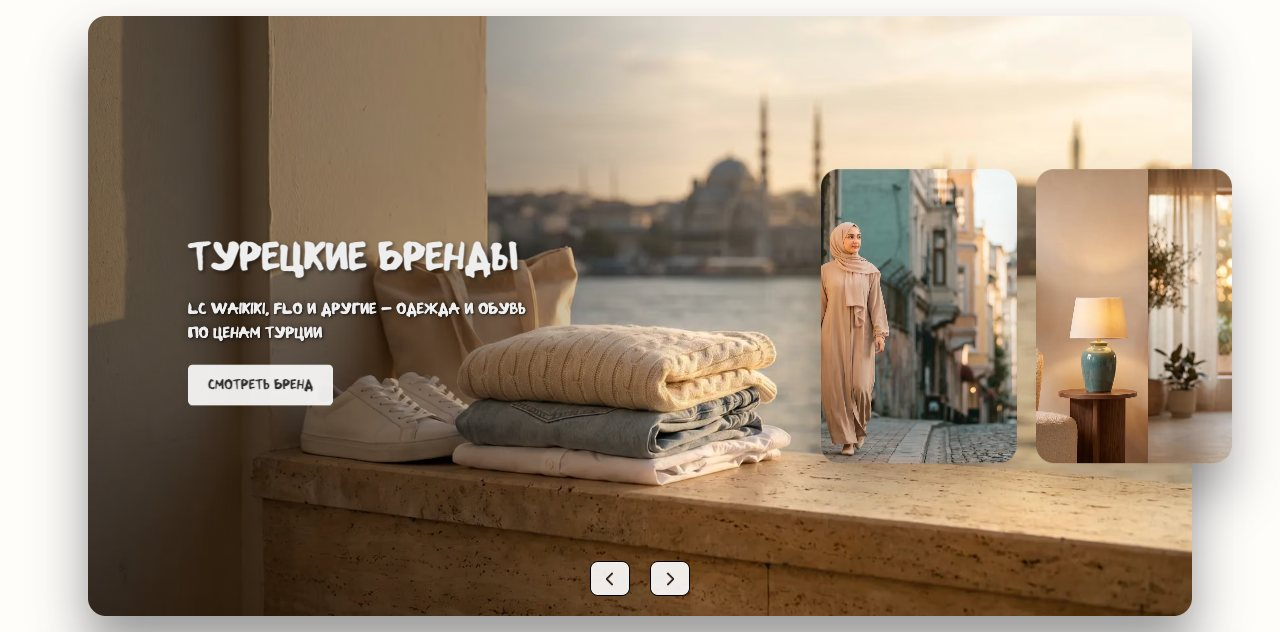
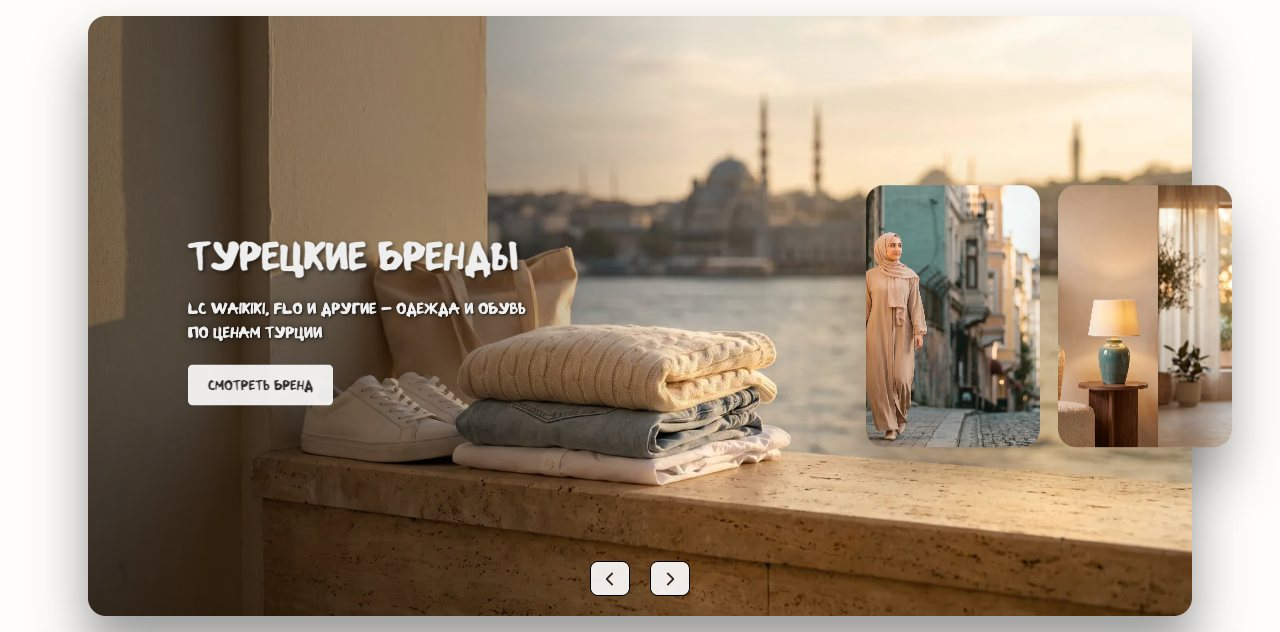
Баннеры: миниатюры мельче, место у центра свободно (решение владельца)
Вместо 168×252 на 1024 px — 116×173 (--thumb-w: clamp(100px, 23vw − 120px,
200px)), на 1280 — 174×262, 200×300 с ~1390 px. Лента начинается не левее
67 % ширины баннера, место убранной центральной миниатюры свободно с ~950 px
(на 769–950 миниатюры 100×150 заходят на него до 57 px). Обе миниатюры по-
прежнему целиком в окне, на ≤ 768 и ≥ 1440 px без изменений.

Changed region(s): [[0.625, 0.2405, 0.9688, 0.7816], [0.1562, 0.6013, 0.25, 0.6313]]

diff --git a/frontend/src/components/BannerCarousel.module.css b/frontend/src/components/BannerCarousel.module.css
@@ -21,8 +21,10 @@
 }
 
 .item {
-  /* Миниатюра 2:3: 140×210 на 769 px → 200×300 с ~1320 px (на ≤ 768 px свои размеры, ниже) */
-  --thumb-w: min(11vw + 55px, 200px);
+  /* Миниатюра 2:3: 100×150 до ~960 px, 116×173 на 1024, 174×262 на 1280, 200×300
+     с ~1390 px (на ≤ 768 px свои размеры, ниже). Мелкая, чтобы место у центра
+     (left: 52%) оставалось свободным */
+  --thumb-w: clamp(100px, 23vw - 120px, 200px);
   /* Правый край второй миниатюры: в 48 px от края окна (край окна от левого края
      баннера = 50% + 50vw, баннер по центру; 100vw включает классическую полосу
      прокрутки, с ней отступ ≈ 40 px), но не правее прежнего места 52% + 640px:
@@ -64,8 +66,8 @@
 
 /* Две миниатюры у правого края, обе целиком в окне: второй элемент - первая
    миниатюра (следующий баннер). Левые края отсчитаны от --strip-end, зазор -
-   0,1 ширины. С ~1380 px место у центра (left: 52%) свободно, на узких окнах
-   лента начинается не левее 56 % ширины баннера (61,5 % на 1024 px) */
+   0,1 ширины. Лента начинается не левее 67 % ширины баннера; место у центра
+   (left: 52%) свободно с ~950 px, уже́ миниатюры 100×150 заходят на него до 57 px */
 .slide .item:nth-child(2) {
   left: calc(var(--strip-end) - var(--thumb-w) * 2.1);
   z-index: 10;

diff --git a/docs/DEVELOPMENT_RULES.md b/docs/DEVELOPMENT_RULES.md
@@ -144,7 +144,7 @@ docker-compose за nginx и Cloudflare.
 5. Деньги: форматирование только через `lib/price.ts`. Никаких локальных `toFixed`/`toLocaleString`.
 6. **Цвет из CSS-переменной — без модификатора прозрачности.** Tailwind 3 не генерирует `bg-[var(--bg)]/95`, `text-main/50`, `border-[var(--border)]/50`: класс молча пропадает, и фон становится прозрачным (так мобильная шторка фильтров категорий показывала тёмный текст на размытой картинке). В `[var(--…)]` — только переменные, объявленные в `styles/globals.css` (`--accent-hover`, `--text-muted`, `--text-main` там нет). Шторка фильтров `CategorySidebar` на мобильном: сплошной фон `--bg`, текст не ниже 4.5:1 в обеих темах, строки и кнопки от 44 px.
 7. **Видео баннеров не грузится вместе со страницей.** В `BannerCarouselMedia` `<video>` рендерится с `preload="none"` без `autoPlay`; ролики играют, только пока блок не дальше полэкрана от видимой области (`IntersectionObserver` с `rootMargin`): активный слайд и видимые миниатюры (на десктопе превью — часть дизайна). Скрытые CSS-ом миниатюры (на телефоне все, `visibility: hidden`) ролик не качают, ушедший с экрана блок стоит на паузе. Исключение — карусель `main`: она в первом экране и запускает ролик без ожидания гидратации. `preload="metadata"` миниатюрам не подходит: у роликов баннеров `moov` в конце файла, и Chrome скачивает их почти целиком. До правки мобильная главная тянула ≈ 18 МБ mp4 восьми роликов `after_brands`/`before_footer`. Пока ролик грузится, виден постер — поле `BannerMedia.video_poster` (в админке рядом с видео; webp до 1400 px, 50–100 КБ), в API `poster_url`. Его ставит тот же ref-колбэк и по тому же условию, что `play()`, а не проп `poster`: постер скрытого `<video>` браузер тоже скачивает. Тест — `src/lib/bannerLoading.test.mjs`.
-8. **Миниатюры баннеров на десктопе.** Видны две — 2-й и 3-й элементы `BannerCarouselMedia` (`VISIBLE_THUMBNAILS`), порядок — из админки. Обе целиком в окне: правый край ленты (`--strip-end`) в 48 px от края окна (с классической полосой прокрутки ≈ 40 px), миниатюра 2:3 растёт от 140×210 (769 px) до 200×300 (~1320 px), зазор — 0,1 ширины. До ~1200 px обе внутри баннера, дальше правая выступает за его край; с ~1420 px положение прежнее. Место убранной миниатюры у центра (`left: 52%`) свободно с ~1380 px; на узких окнах лента начинается не левее 56 % ширины баннера (61,5 % на 1024 px) — плата за то, что обе миниатюры помещаются. Если медиа два, единственная миниатюра стоит на прежнем месте, когда там помещается. Формула считает, что карусель стоит по центру окна (так на главной, /how-to-order-medicines, /brands и /categories); в несимметричной колонке правый край ленты нужно пересчитать. До 22.10.2026 на 769–1324 px вторая миниатюра обрезалась краем окна (на 1024 было видно 52 px из 200). На ≤ 768 px лента от 52 %, как раньше, на ≤ 640 px миниатюр нет. Миниатюра — кроп широкого баннера (до 200×300 из картинки шириной ~700 px), поэтому файл под её ширину размыт. После `load`, в `requestIdleCallback`, видимые картинки-миниатюры (≥ 769 px, блок рядом с экраном, без роликов) получают тот же полноразмерный файл, что и слайд: при переключении он уже в кэше. До этого миниатюры маленькие, ближайшая с `fetchPriority="auto"`, остальные `low` — канал у LCP не отнимается. Картинки — только через `next/image`. Тест — `src/lib/bannerLoading.test.mjs`.
+8. **Миниатюры баннеров на десктопе.** Видны две — 2-й и 3-й элементы `BannerCarouselMedia` (`VISIBLE_THUMBNAILS`), порядок — из админки. Обе целиком в окне: правый край ленты (`--strip-end`) в 48 px от края окна (с классической полосой прокрутки ≈ 40 px), миниатюра 2:3: 100×150 до ~960 px, 116×173 на 1024, 174×262 на 1280, 200×300 с ~1390 px; зазор — 0,1 ширины. До ~1200 px обе внутри баннера, дальше правая выступает за его край; с ~1420 px положение прежнее. Лента начинается не левее 67 % ширины баннера, место убранной миниатюры у центра (`left: 52%`) свободно с ~950 px — ради этого миниатюры мельче (решение владельца 22.10.2026: на 1024 px 116×173 вместо варианта 168×252, при котором лента заходила на место у центра); на 769–950 px миниатюры 100×150 заходят на него до 57 px. Если медиа два, единственная миниатюра стоит на прежнем месте, когда там помещается. Формула считает, что карусель стоит по центру окна (так на главной, /how-to-order-medicines, /brands и /categories); в несимметричной колонке правый край ленты нужно пересчитать. До 22.10.2026 на 769–1324 px вторая миниатюра обрезалась краем окна (на 1024 было видно 52 px из 200). На ≤ 768 px лента от 52 %, как раньше, на ≤ 640 px миниатюр нет. Миниатюра — кроп широкого баннера (до 200×300 из картинки шириной ~700 px), поэтому файл под её ширину размыт. После `load`, в `requestIdleCallback`, видимые картинки-миниатюры (≥ 769 px, блок рядом с экраном, без роликов) получают тот же полноразмерный файл, что и слайд: при переключении он уже в кэше. До этого миниатюры маленькие, ближайшая с `fetchPriority="auto"`, остальные `low` — канал у LCP не отнимается. Картинки — только через `next/image`. Тест — `src/lib/bannerLoading.test.mjs`.
 
 ## 5. E-commerce правила
 
